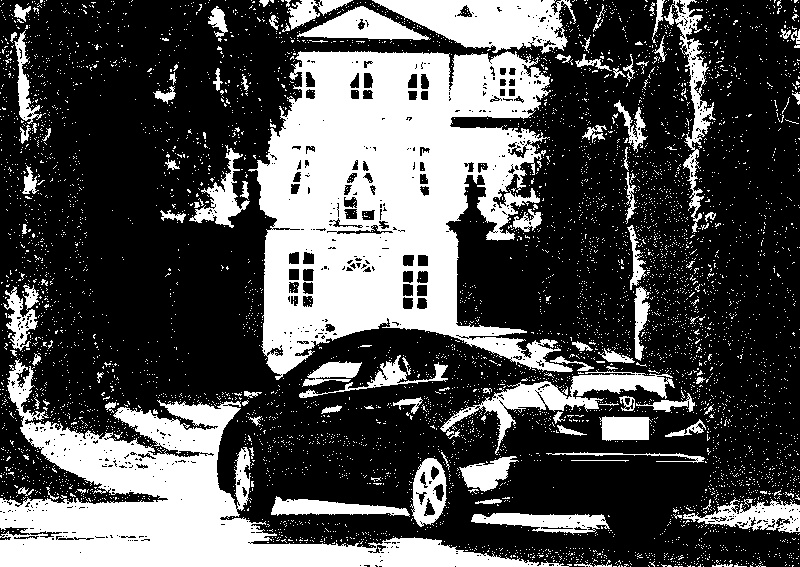
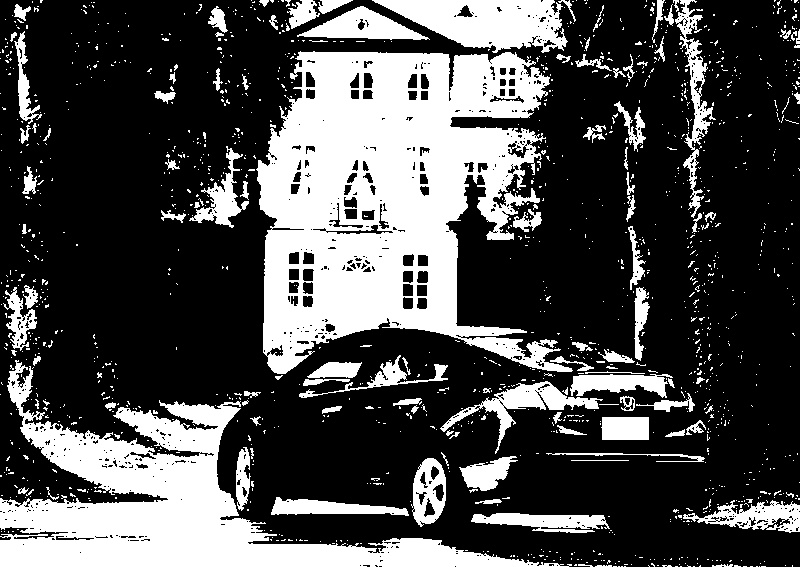
change image threshold and set new comment for thresholde of image

Changed region(s): [[0.8438, 0.9894, 0.875, 1.0], [0.8125, 0.4198, 0.8438, 0.4497], [0.7188, 0.9894, 0.75, 1.0]]

diff --git a/Section1/Exam2.py b/Section1/Exam2.py
@@ -2,7 +2,7 @@ import cv2 as cv
 
 image = cv.imread("C:/Users/behrooz/PycharmProjects/VisionComputing/Section1/images/k5img.jpg")
 path = "C:/Users/behrooz/PycharmProjects/VisionComputing/Section1/threasholdImages/"
-reng = 120
+reng = 160
 
 imgGrayScale = cv.cvtColor(image, cv.COLOR_BGR2GRAY)
 cv.imshow("gray", imgGrayScale)
@@ -11,11 +11,17 @@ imgGrayScale[imgGrayScale > reng] = 255
 imgGrayScale[imgGrayScale <= reng] = 0
 # Iterate ranges; find proper pixel indices; set proper color in map at these indices
 
-cv.imwrite('{}/ThreshImg.jpg'.format(path),imgGrayScale )
+
+cv.imwrite('{}/ThreshImg.jpg'.format(path), imgGrayScale)
 cv.imshow("afterTreshold", imgGrayScale)
+
 cv.waitKey(0)
 cv.destroyAllWindows()
 # docs
 # اگر ما شرظ جدا سازی خودرو داخل تصویر را مبنا قرار دهیم پس آستانه ای که
 # بتواند این چداسازی را بهتر انجام بدهد برای
 # ما قابل قبول است که بهترین مقدار عدد های بین 120 تا 128 است
+
+
+# عکس هایی که زیر 140 معمولا آستانه گذاری می شدند دارای نویز های بسیاری بودند که با این نتیجه بهترین عدد برای
+# آستانه گذاری عدد بین 140 تا 160 است و بیشر شدن این عدد باعث می شود که لبه های خودرو در عکس معلوم نشود
